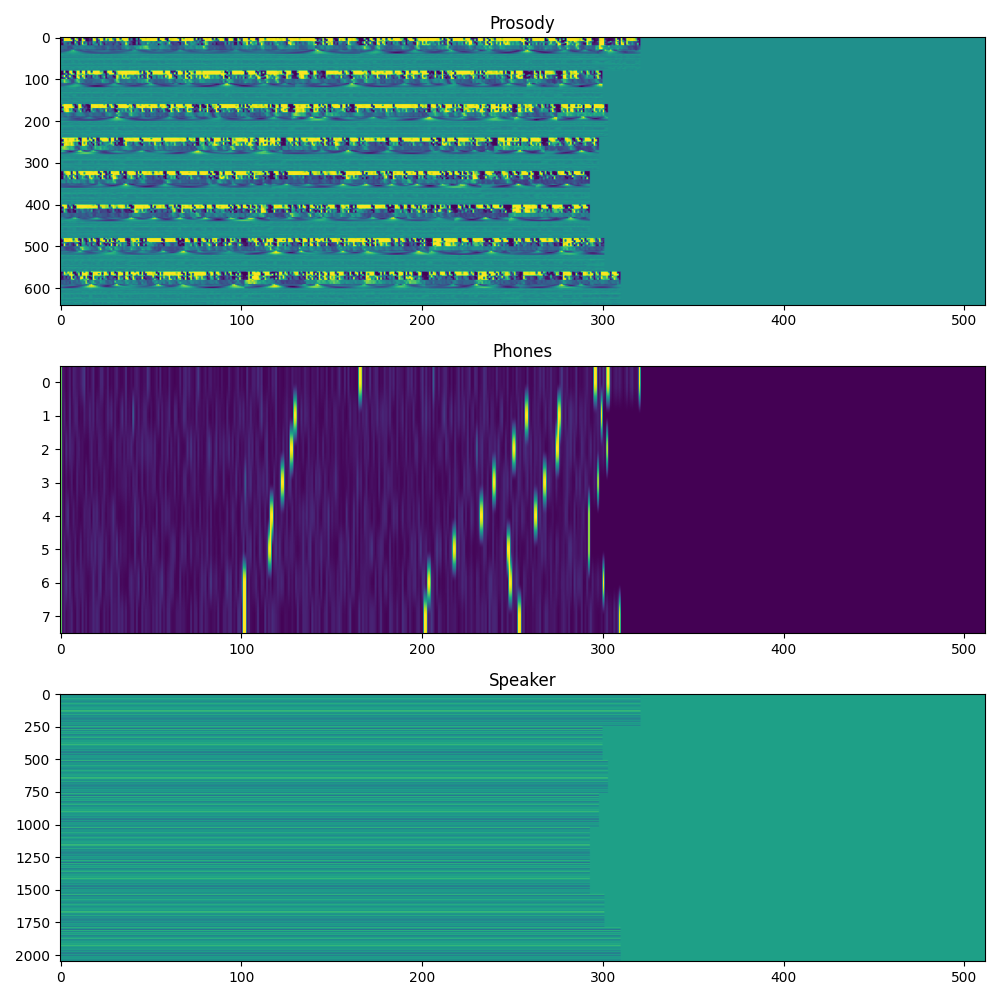
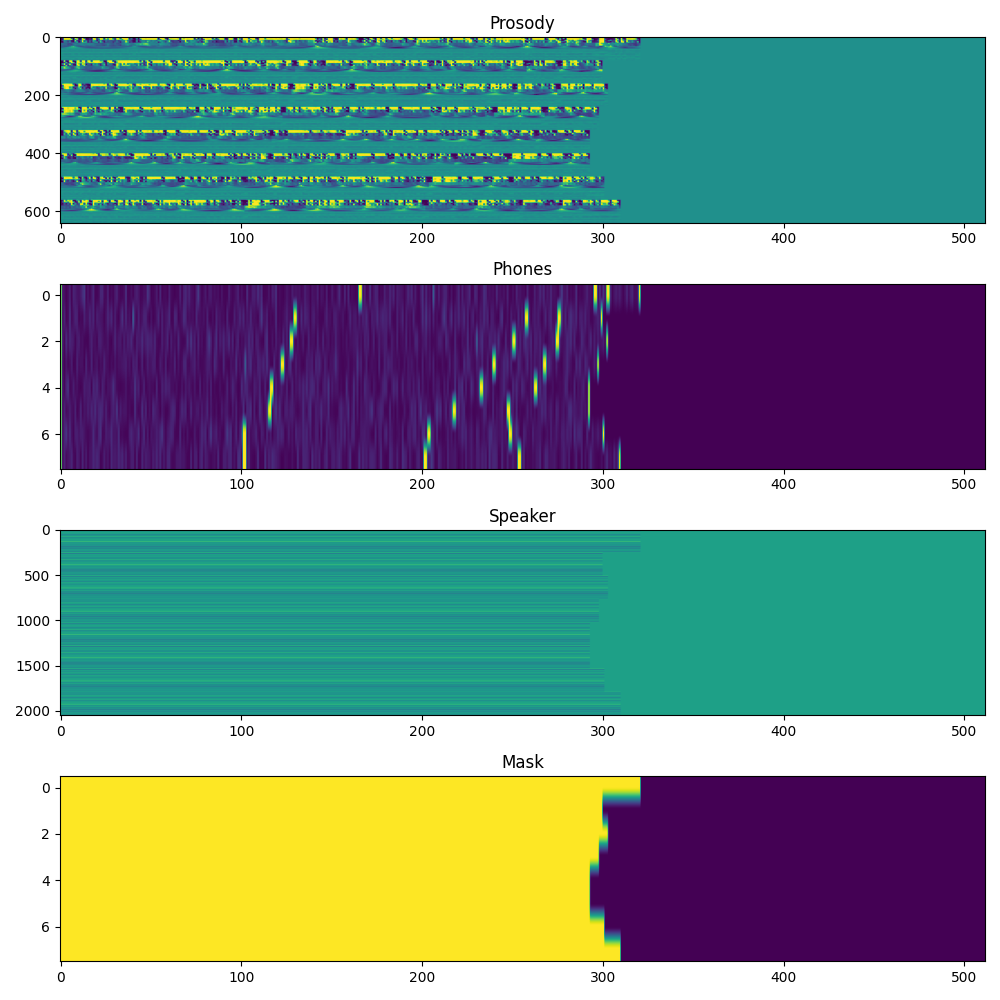
fixes

diff --git a/scripts/train.py b/scripts/train.py
@@ -95,7 +95,9 @@ def wandb_log(prefix, log_dict, round_n=3, print_log=True):
         log_dict = {f"{prefix}/{k}": v for k, v in log_dict.items()}
         wandb.log(log_dict, step=global_step)
         if print_log:
-            log_dict = {k: round(v, round_n) for k, v in log_dict.items() if "image" not in k}
+            log_dict = {
+                k: round(v, round_n) for k, v in log_dict.items() if "image" not in k
+            }
             console.log(log_dict)
 
 
@@ -112,9 +114,7 @@ def save_checkpoint(name_override=None):
         name = name_override
     else:
         name = f"step_{global_step}"
-    checkpoint_path = (
-        Path(training_args.checkpoint_path) / checkpoint_name / name
-    )
+    checkpoint_path = Path(training_args.checkpoint_path) / checkpoint_name / name
     if name_override is None:
         # remove old checkpoints
         if checkpoint_path.exists():
@@ -160,7 +160,9 @@ def train_epoch(epoch):
                 ).long()
                 noisy_ = noise_scheduler.add_noise(packed_prosody, noise, timesteps)
                 output = model(noisy_, timesteps, packed_phones, packed_speaker)
-                loss = F.mse_loss(output, packed_prosody)
+                loss = F.mse_loss(output, packed_prosody, reduction="none")
+                loss = loss * packed_mask.unsqueeze(-1)
+                loss = loss.sum() / packed_mask.sum()
             elif training_args.train_type == "decoder":
                 (
                     packed_prosody,
@@ -185,6 +187,9 @@ def train_epoch(epoch):
                     packed_speaker,
                     packed_prosody,
                 )
+                loss = F.mse_loss(output, packed_mel, reduction="none")
+                loss = loss * packed_mask.unsqueeze(-1)
+                loss = loss.sum() / packed_mask.sum()
             accelerator.backward(loss)
             accelerator.clip_grad_norm_(
                 model.parameters(), training_args.gradient_clip_val
@@ -237,12 +242,12 @@ def evaluate():
         beta_schedule=training_args.ddpm_beta_schedule,
         timestep_spacing="linspace",
     )
-    pipeline = DDPMPipeline(
-        eval_model, eval_noise_scheduler, model_args, device="cpu"
-    )
+    pipeline = DDPMPipeline(eval_model, eval_noise_scheduler, model_args, device="cpu")
     with torch.no_grad():
         if training_args.train_type == "encoder":
-            packed_prosody, packed_phones, packed_speaker = next(iter(val_dl))
+            packed_prosody, packed_phones, packed_speaker, packed_mask = next(
+                iter(val_dl)
+            )
             noise = torch.randn(packed_prosody.shape).to(packed_prosody.device)
             bsz = packed_prosody.shape[0]
             output = pipeline(packed_phones, packed_speaker)
@@ -254,16 +259,20 @@ def evaluate():
             plt.savefig("figures/current_val.png")
             mse = F.mse_loss(torch.tensor(output), packed_prosody.cpu())
             # log to wandb
-            wandb_log("val", {
-                "inference_image": wandb.Image(fig),
-                "mse": mse,
-            })
+            wandb_log(
+                "val",
+                {
+                    "inference_image": wandb.Image(fig),
+                    "mse": mse.item(),
+                },
+            )
         elif training_args.train_type == "decoder":
             (
                 packed_prosody,
                 packed_phones,
                 packed_speaker,
                 packed_mel,
+                packed_mask,
             ) = next(iter(val_dl))
             noise = torch.randn(packed_mel.shape).to(packed_mel.device)
             bsz = packed_mel.shape[0]
@@ -280,10 +289,13 @@ def evaluate():
             plt.savefig("figures/current_val.png")
             mse = F.mse_loss(torch.tensor(output), packed_mel.cpu())
             # log to wandb
-            wandb_log("val", {
-                "inference_image": wandb.Image(fig),
-                "mse": mse,
-            })
+            wandb_log(
+                "val",
+                {
+                    "inference_image": wandb.Image(fig),
+                    "mse": mse.item(),
+                },
+            )
     evaluate_loss_only()
 
 
@@ -291,10 +303,9 @@ def evaluate_loss_only():
     model.eval()
     losses = []
     with torch.no_grad():
-        for batch in val_dl:
+        for batch in tqdm(val_dl, desc="val"):
             if training_args.train_type == "encoder":
                 packed_prosody, packed_phones, packed_speaker, packed_mask = batch
-                print(packed_prosody.min(), packed_prosody.max())
                 noise = torch.randn(packed_prosody.shape).to(packed_prosody.device)
                 bsz = packed_prosody.shape[0]
                 timesteps = torch.randint(
@@ -330,7 +341,7 @@ def evaluate_loss_only():
                     packed_speaker,
                     packed_prosody,
                 )
-                loss = F.mse_loss(output, packed_mel)
+                loss = F.mse_loss(output, packed_mel).item().numpy()
             losses.append(loss.detach())
     loss = torch.mean(torch.tensor(losses)).item()
     wandb_log("val", {"loss": loss})
@@ -475,6 +486,8 @@ def main():
 
     # collator
     collator = get_collator(training_args, collator_args)
+    collator_val = get_collator(training_args, collator_args)
+    collator_val.inference = True
 
     # plot first batch
     if accelerator.is_main_process:
@@ -496,7 +509,7 @@ def main():
         val_ds,
         batch_size=training_args.batch_size,
         shuffle=False,
-        collate_fn=collator,
+        collate_fn=collator_val,
     )
 
     # optimizer

diff --git a/collators/default.py b/collators/default.py
@@ -10,10 +10,11 @@ WAVELET_WIDTHS = np.arange(1, 10, 1)
 
 
 class EncoderCollator:
-    def __init__(self, args: EncoderCollatorArgs):
+    def __init__(self, args: EncoderCollatorArgs, inference=False):
         self.max_length = args.enc_max_length
         self.pack_factor = args.enc_pack_factor
         self.verbose = args.enc_verbose
+        self.inference = inference
 
     @staticmethod
     def compute_cwt(duration_array):
@@ -126,6 +127,7 @@ class EncoderCollator:
         items = [EncoderCollator.item_to_arrays(item) for item in batch]
         prosody, phones, speaker = zip(*items)
         pack_sequence = np.random.rand() > 0.05
+        pack_sequence = pack_sequence and not self.inference
         if pack_sequence:
             packed_prosody, packed_phones, packed_speaker, packed_mask = self.pack(
                 prosody, phones, speaker
@@ -178,10 +180,11 @@ class EncoderCollator:
 
 
 class DecoderCollator:
-    def __init__(self, args: DecoderCollatorArgs):
+    def __init__(self, args: DecoderCollatorArgs, inference=False):
         self.max_length = args.dec_max_length
         self.pack_factor = args.dec_pack_factor
         self.verbose = args.dec_verbose
+        self.inference = inference
 
     @staticmethod
     def item_to_arrays(item):
@@ -294,10 +297,15 @@ class DecoderCollator:
         items = [DecoderCollator.item_to_arrays(item) for item in batch]
         prosody, phones, speaker, mel = zip(*items)
         pack_sequence = np.random.rand() > 0.05
+        pack_sequence = pack_sequence and not self.inference
         if pack_sequence:
-            packed_prosody, packed_phones, packed_speaker, packed_mel, packed_mask = self.pack(
-                prosody, phones, speaker, mel
-            )
+            (
+                packed_prosody,
+                packed_phones,
+                packed_speaker,
+                packed_mel,
+                packed_mask,
+            ) = self.pack(prosody, phones, speaker, mel)
         else:
             # use the first half of the batch and pad to self.max_length
             packed_prosody = torch.zeros(

diff --git a/figures/plotting.py b/figures/plotting.py
@@ -7,7 +7,12 @@ def plot_first_batch(batch, args: TrainingArgs, collator_args):
     if args.train_type == "encoder":
         fig, axes = plt.subplots(nrows=4, ncols=1, figsize=(10, 10))
         prosody = (
-            batch[0].squeeze(1).transpose(0, 1).reshape(collator_args.enc_max_length, -1).numpy().T
+            batch[0]
+            .squeeze(1)
+            .transpose(0, 1)
+            .reshape(collator_args.enc_max_length, -1)
+            .numpy()
+            .T
         )
         phones = (
             batch[1].transpose(0, 1).reshape(collator_args.enc_max_length, -1).numpy().T
@@ -16,7 +21,12 @@ def plot_first_batch(batch, args: TrainingArgs, collator_args):
             batch[2].transpose(0, 1).reshape(collator_args.enc_max_length, -1).numpy().T
         )
         mask = (
-            batch[3].transpose(0, 1).reshape(collator_args.enc_max_length, -1).numpy().T
+            batch[3]
+            .squeeze(1)
+            .transpose(0, 1)
+            .reshape(collator_args.enc_max_length, -1)
+            .numpy()
+            .T
         )
         axes[0].imshow(prosody, aspect="auto")
         axes[1].imshow(phones, aspect="auto")
@@ -38,10 +48,20 @@ def plot_first_batch(batch, args: TrainingArgs, collator_args):
             batch[2].transpose(0, 1).reshape(collator_args.dec_max_length, -1).numpy().T
         )
         mel = (
-            batch[3].squeeze(1).transpose(0, 1).reshape(collator_args.dec_max_length, -1).numpy().T
+            batch[3]
+            .squeeze(1)
+            .transpose(0, 1)
+            .reshape(collator_args.dec_max_length, -1)
+            .numpy()
+            .T
         )
         mask = (
-            batch[4].transpose(0, 1).reshape(collator_args.dec_max_length, -1).numpy().T
+            batch[4]
+            .squeeze(1)
+            .transpose(0, 1)
+            .reshape(collator_args.dec_max_length, -1)
+            .numpy()
+            .T
         )
         axes[0].imshow(prosody, aspect="auto")
         axes[1].imshow(phones, aspect="auto")

diff --git a/configs/args.py b/configs/args.py
@@ -26,7 +26,7 @@ class TrainingArgs:
     do_save: bool = False
     save_onx: bool = False
     eval_only: bool = False
-    eval_every_n_steps: int = 1000
+    eval_every_n_steps: int = 10
     save_every_n_steps: int = 10000
     push_to_hub: bool = False
     hub_repo: str = None
